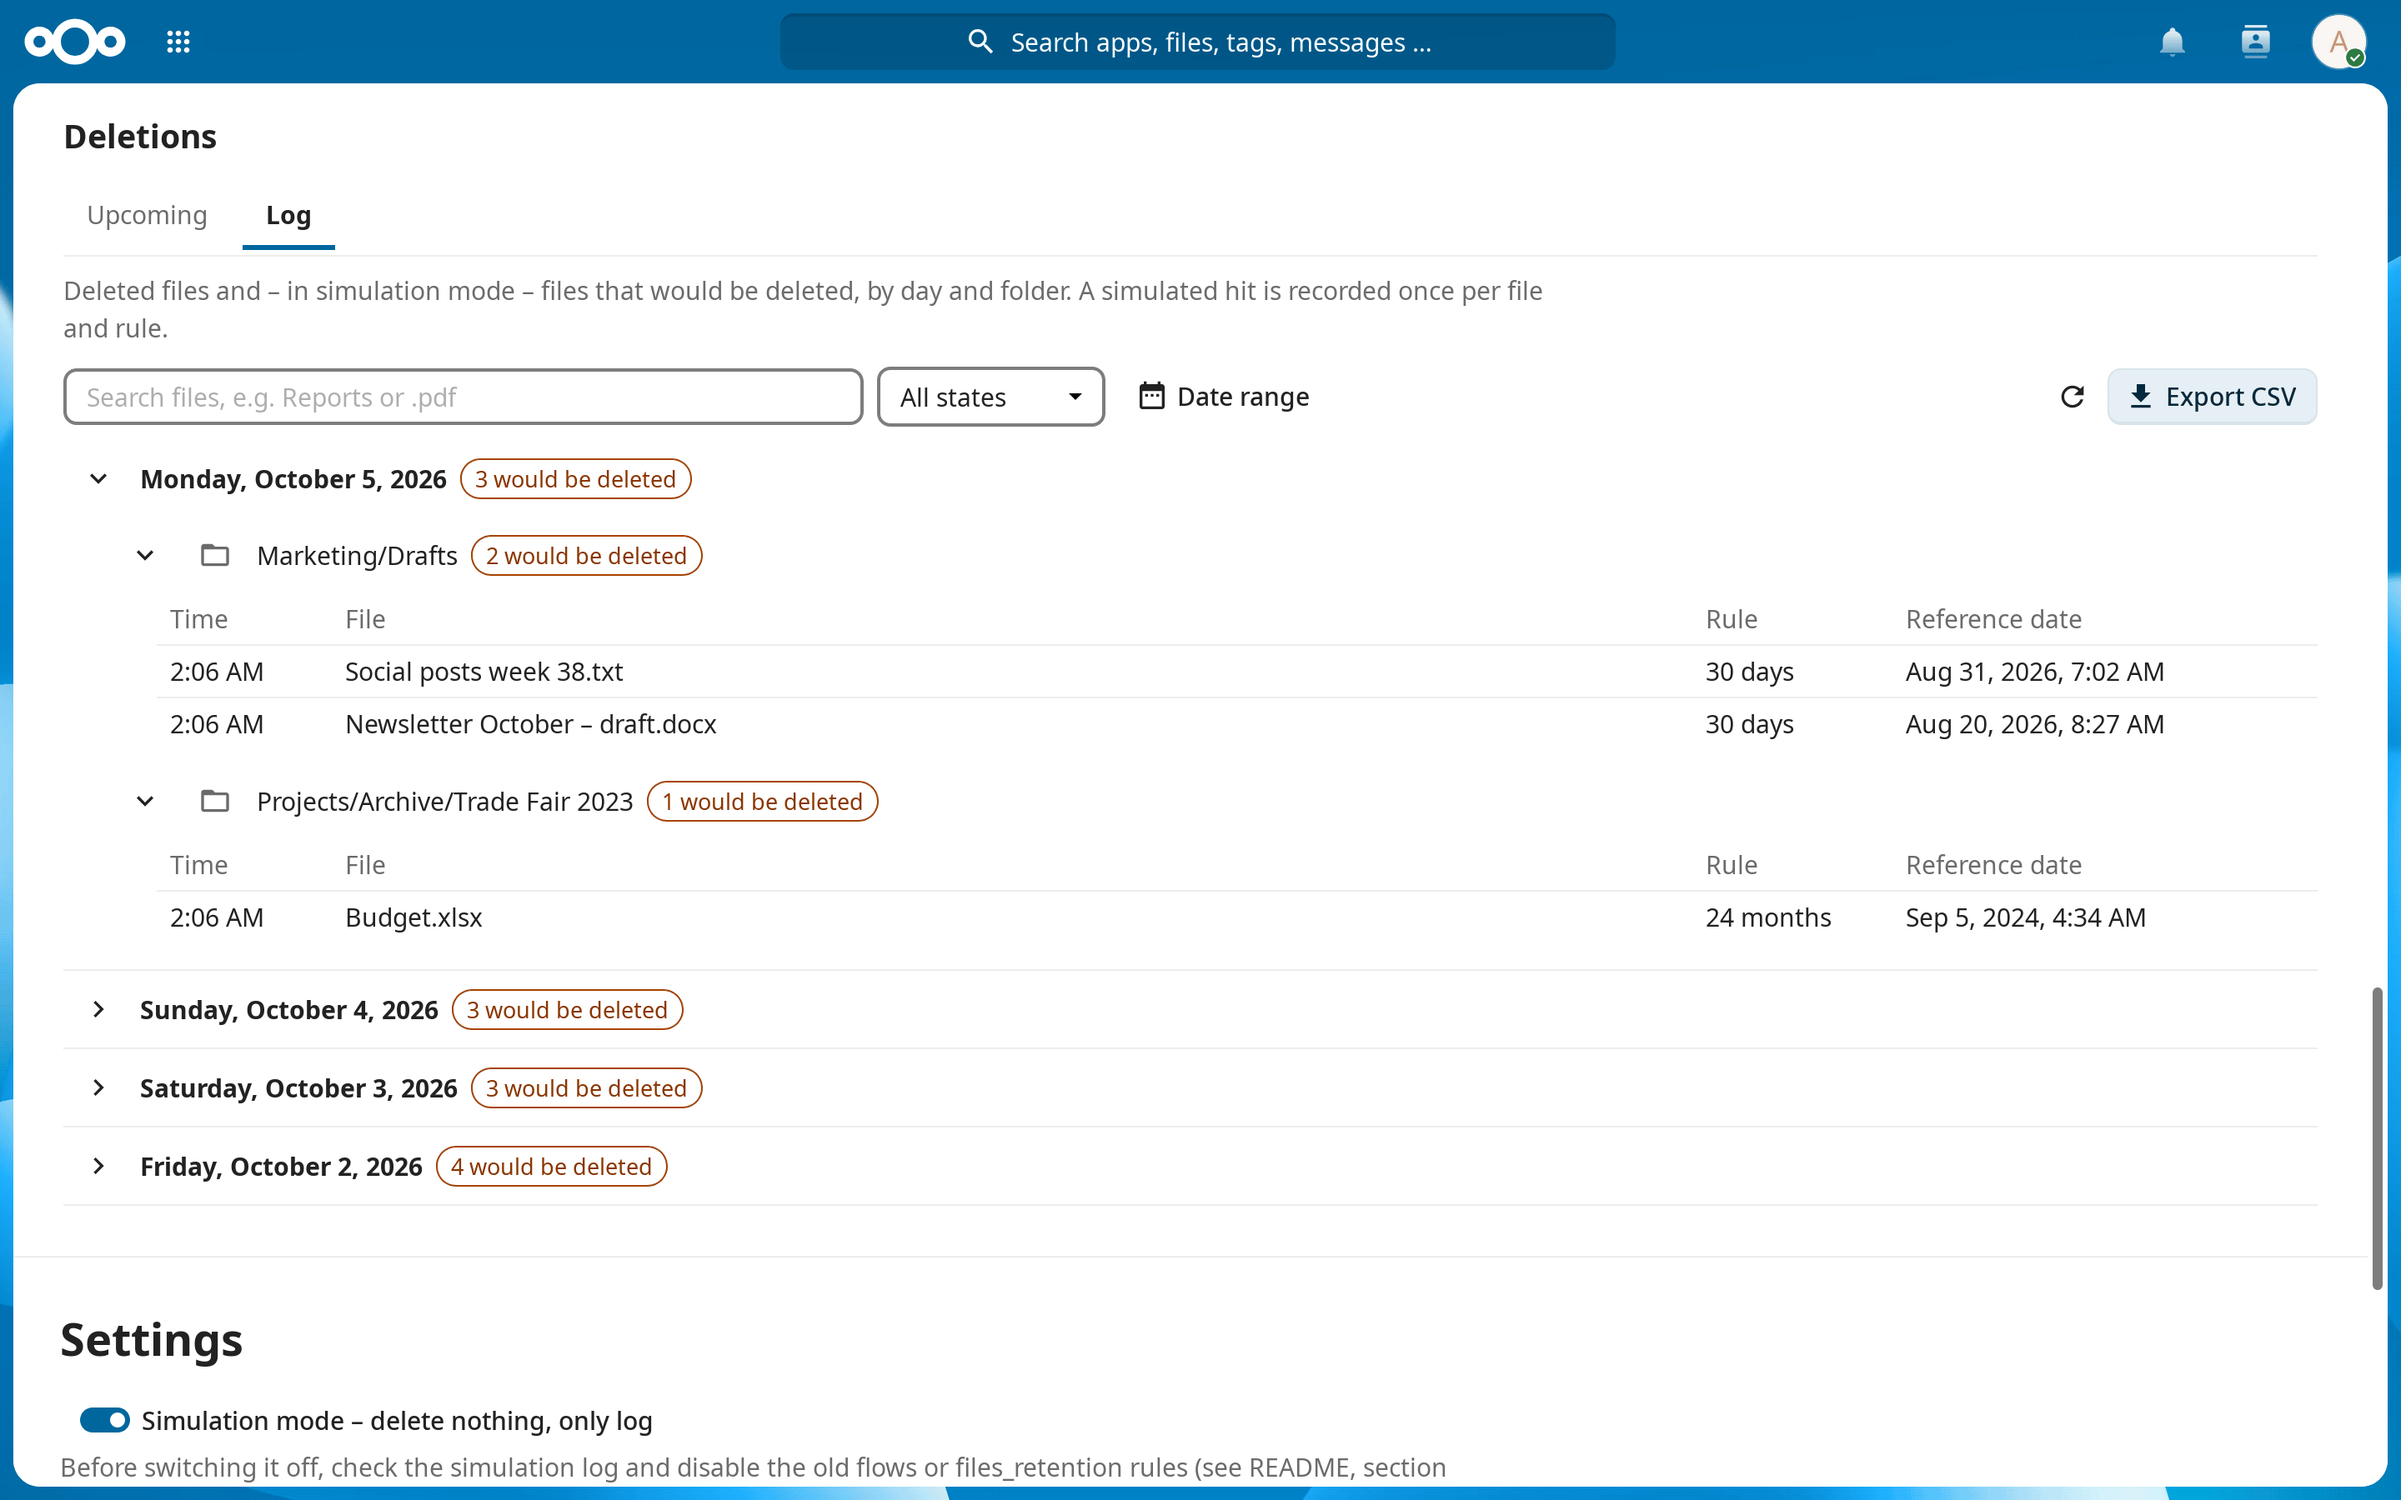
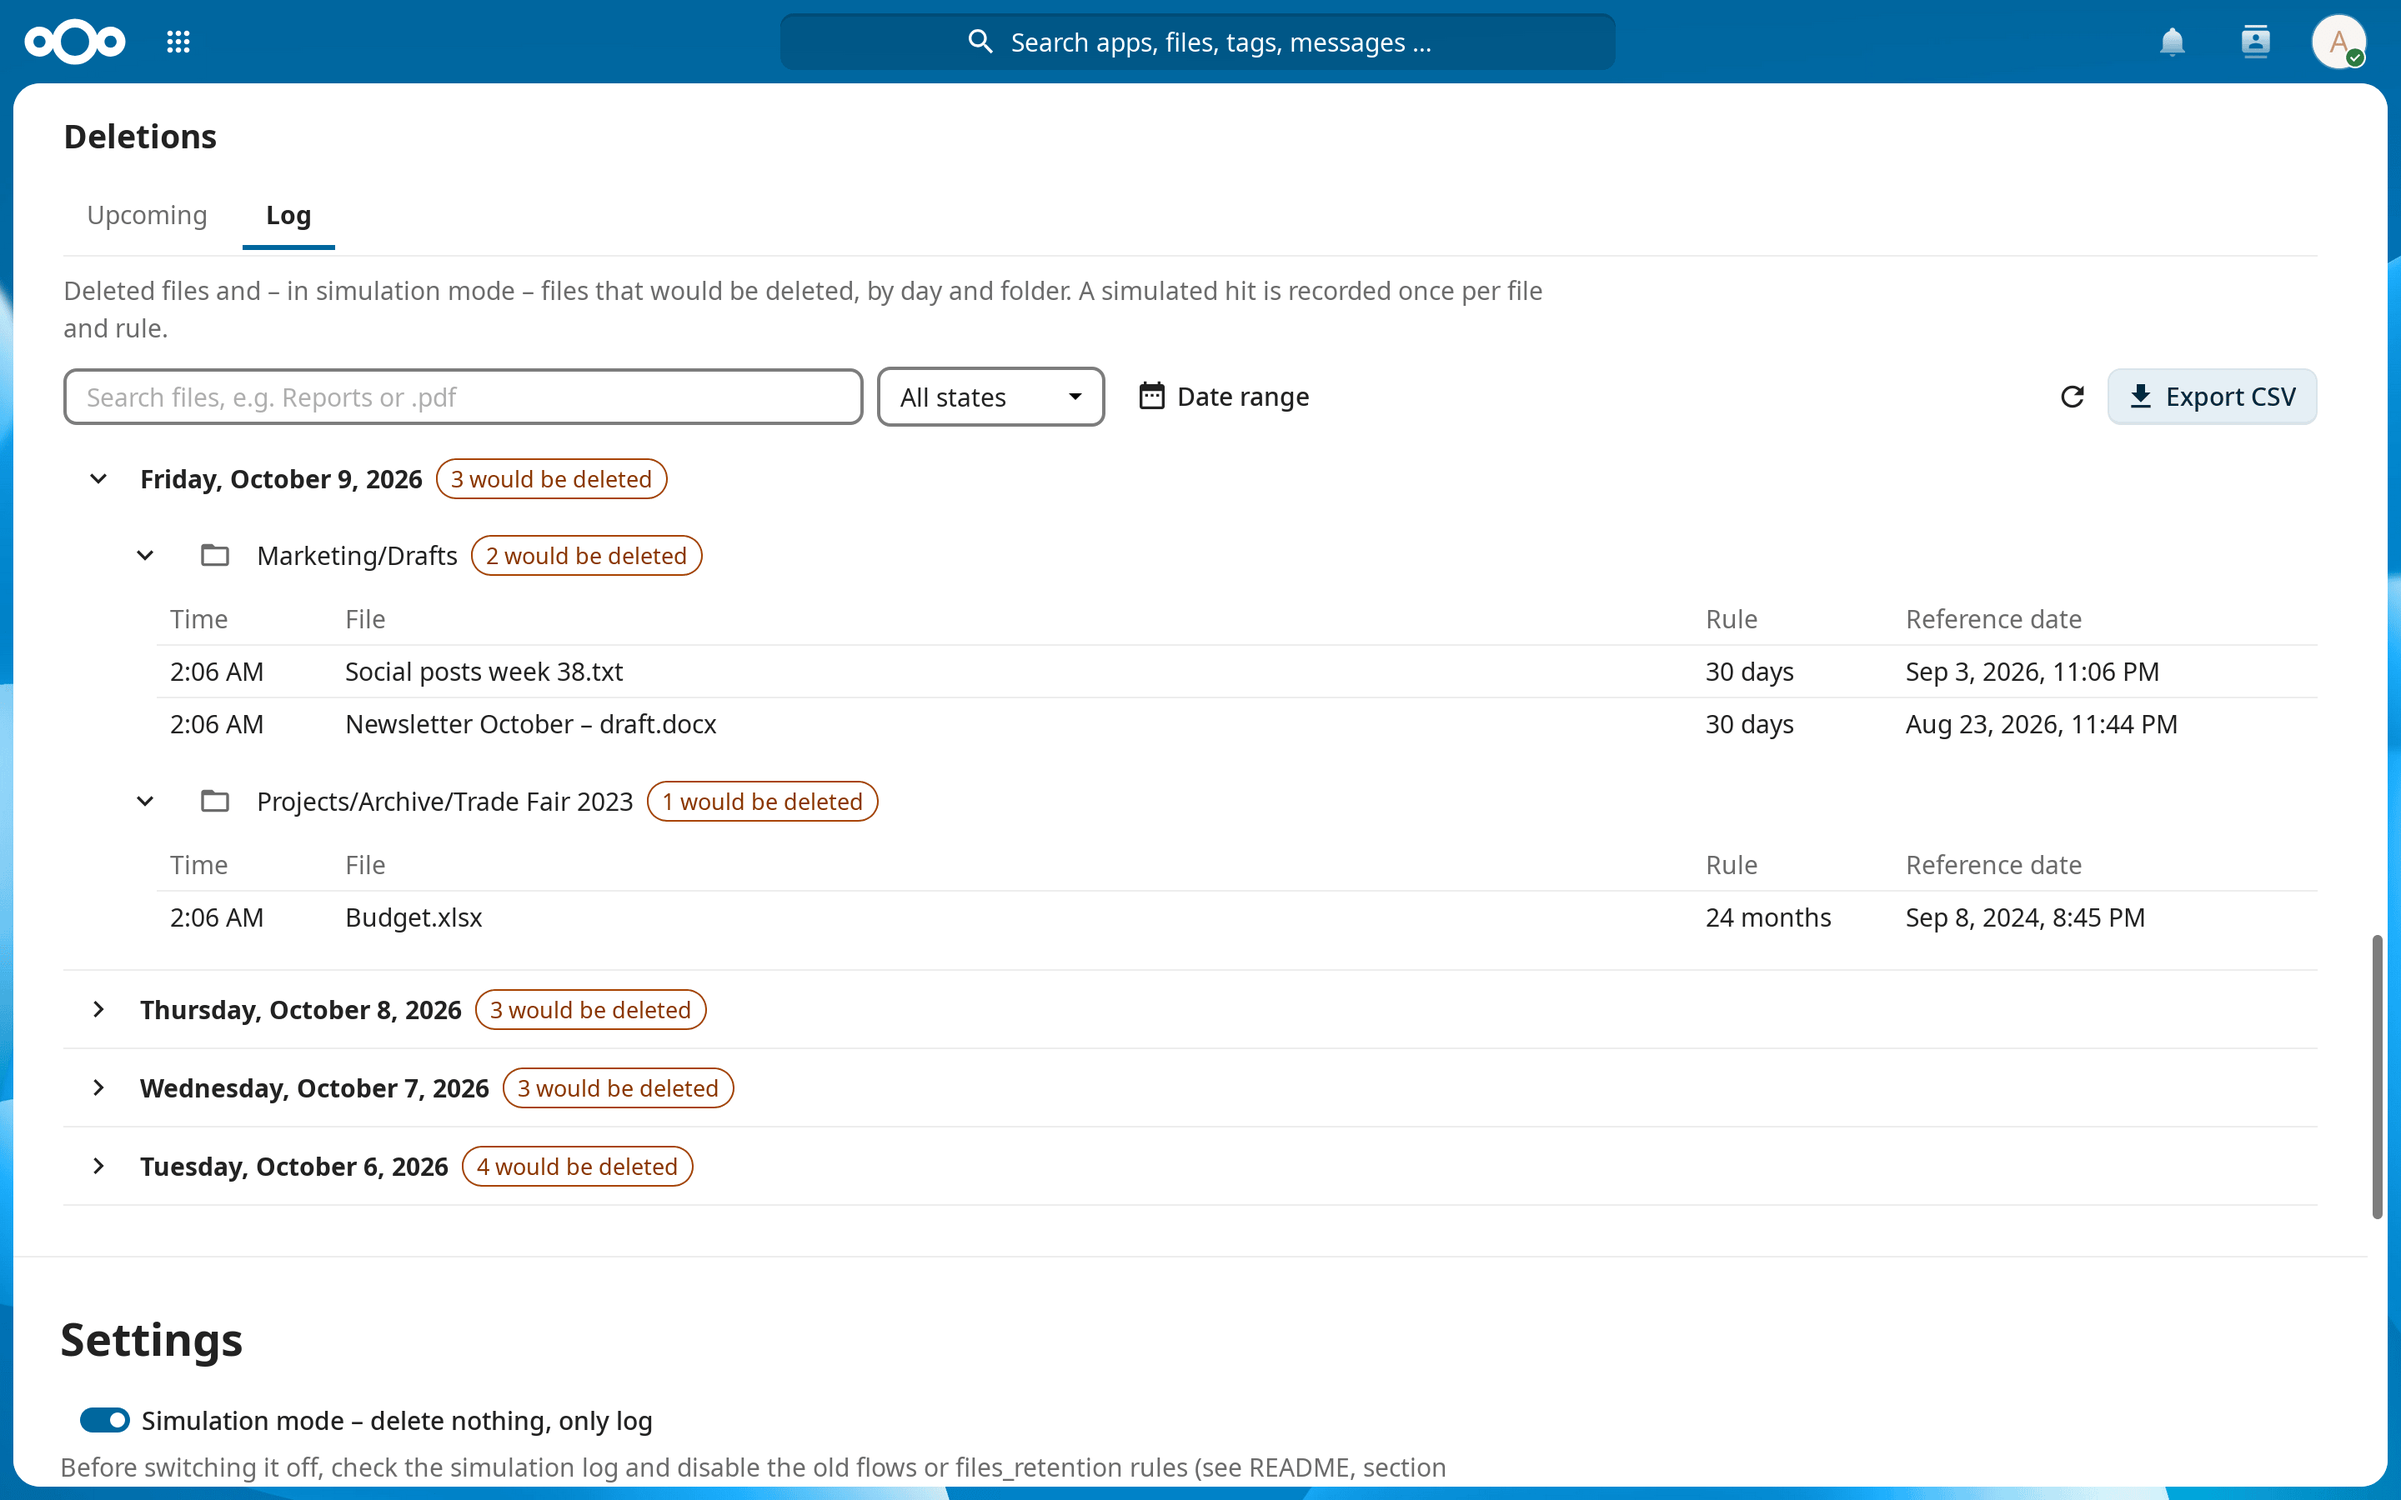
Release 0.9.1
Changelog section [0.9.1]: language of tags and log entries, deletion
date in the Files app. Store description mentions both; screenshots
retaken, 07 (deletion date) and 08 (sidebar tab) added.

diff --git a/docs/APPSTORE.md b/docs/APPSTORE.md
@@ -20,7 +20,7 @@ Planned public repository: `hotochan123/nextcloud-folder-retention`.
 | Public repository | done — `hotochan123/nextcloud-folder-retention` is public, Issues and private vulnerability reporting enabled |
 | Certificate | done — issued 2026-10-07 (nextcloud/app-certificate-requests#1307), valid until 2037-01-12 |
 | App ID registered | done |
-| Screenshots | done — six PNGs under `screenshots/` (`dev/shots/run.sh`), referenced in `info.xml` via `raw.githubusercontent.com` |
+| Screenshots | done — eight PNGs under `screenshots/` (`dev/shots/run.sh`), referenced in `info.xml` via `raw.githubusercontent.com` |
 | Public e-mail address | none, as for Pulse — commits use the GitHub no-reply address, contact through the issue tracker |
 
 ## Once

diff --git a/CHANGELOG.md b/CHANGELOG.md
@@ -7,7 +7,7 @@ All notable changes to Folder Retention are documented here. The format follows
 Release notes on the Nextcloud App Store are taken from the topmost sections of
 this file, so every published version needs an entry here.
 
-## [Unreleased]
+## [0.9.1] - 2026-10-09
 
 ### Added
 - Settings: **Language of tags and log entries** — a shipped language or

diff --git a/dev/shots/README.md b/dev/shots/README.md
@@ -3,7 +3,7 @@
 `run.sh` produces the store images in `screenshots/` from the working tree:
 
 ```sh
-dev/shots/run.sh                 # ~3 min, writes screenshots/01-…06-*.png
+dev/shots/run.sh                 # ~3 min, writes screenshots/01-…08-*.png
 KEEP=1 dev/shots/run.sh          # leave the instance running to look around
 ```
 
